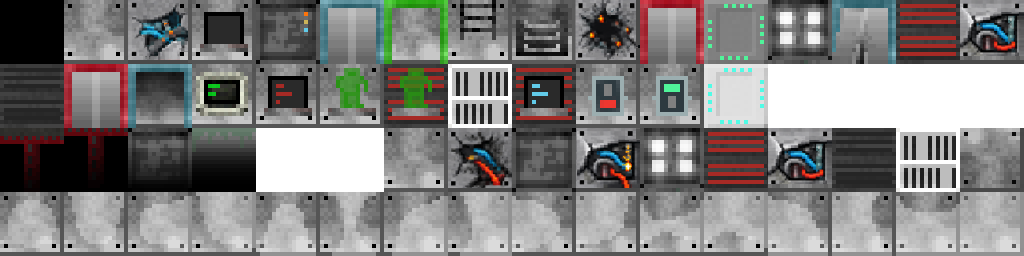
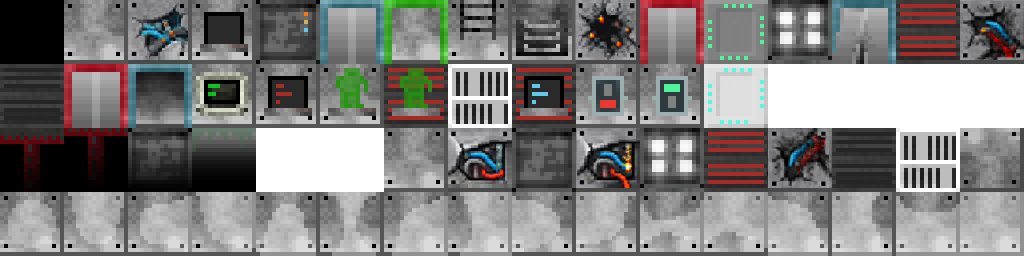
Refine terrain states and game zoom persistence

Changed region(s): [[0.9375, 0.0, 1.0, 0.25], [0.75, 0.5, 0.8125, 0.75], [0.4375, 0.5, 0.5, 0.75]]

diff --git a/core/src/main/java/com/wafitz/pixelspacebase/SpacebaseTilemap.java b/core/src/main/java/com/wafitz/pixelspacebase/SpacebaseTilemap.java
@@ -66,7 +66,9 @@ public class SpacebaseTilemap extends Tilemap {
         defaultVisuals.put(Terrain.SECRET_DOOR, defaultVisuals.get(Terrain.WALL));
         defaultVisuals.put(Terrain.HIDDEN_VENT, defaultVisuals.get(Terrain.EMPTY));
         defaultVisuals.put(Terrain.VENT, defaultVisuals.get(Terrain.EMPTY));
-        defaultVisuals.put(Terrain.INACTIVE_VENT, defaultVisuals.get(Terrain.EMPTY));
+        defaultVisuals.put(Terrain.INACTIVE_VENT, 9);
+        defaultVisuals.put(Terrain.SPENT_MINE, 41);
+        defaultVisuals.put(Terrain.TRAMPLED_OFFVENT, defaultVisuals.get(Terrain.OFFVENT));
 
         defaultVisuals.put(Terrain.EMPTY_DECO, 16);
         defaultVisuals.put(Terrain.LOCKED_EXIT, 17);
@@ -110,7 +112,8 @@ public class SpacebaseTilemap extends Tilemap {
             Terrain.EMPTY, Terrain.LIGHTEDVENT, Terrain.EMPTY_WELL,
             Terrain.ENTRANCE, Terrain.EXIT, Terrain.EMBERS,
             Terrain.BARRICADE, Terrain.OFFVENT, Terrain.HIDDEN_VENT,
-            Terrain.VENT, Terrain.INACTIVE_VENT, Terrain.EMPTY_DECO,
+            Terrain.VENT, Terrain.INACTIVE_VENT, Terrain.TRAMPLED_OFFVENT,
+            Terrain.SPENT_MINE, Terrain.EMPTY_DECO,
             Terrain.SIGN, Terrain.WELL, Terrain.STATUE, Terrain.CRAFTING,
             Terrain.BREAKER, Terrain.HEALING_TANK
     );
@@ -124,6 +127,8 @@ public class SpacebaseTilemap extends Tilemap {
         chasmStitcheable.put(Terrain.LIGHTEDVENT, 32);
         chasmStitcheable.put(Terrain.EMPTY_WELL, 32);
         chasmStitcheable.put(Terrain.OFFVENT, 32);
+        chasmStitcheable.put(Terrain.TRAMPLED_OFFVENT, 32);
+        chasmStitcheable.put(Terrain.SPENT_MINE, 32);
         chasmStitcheable.put(Terrain.EMPTY_DECO, 32);
         chasmStitcheable.put(Terrain.SIGN, 32);
         chasmStitcheable.put(Terrain.EMPTY_WELL, 32);
@@ -198,6 +203,10 @@ public class SpacebaseTilemap extends Tilemap {
 
     private int getTileVisual(int pos, int tile) {
         int visual = defaultVisuals.get(tile);
+
+        if (tile == Terrain.INACTIVE_VENT || tile == Terrain.SPENT_MINE) {
+            return visual;
+        }
 
         if (tile == Terrain.BREAKER) {
             return SpacebaseRun.level.floorBreakerOn ? 26 : 25;

diff --git a/core/src/main/java/com/wafitz/pixelspacebase/levels/Level.java b/core/src/main/java/com/wafitz/pixelspacebase/levels/Level.java
@@ -908,12 +908,8 @@ public abstract class Level implements Bundlable {
             mine.wither();
         }
 
-        if (map[pos] == Terrain.OFFVENT ||
-                map[pos] == Terrain.LIGHTEDVENT ||
-                map[pos] == Terrain.EMPTY ||
-                map[pos] == Terrain.EMBERS ||
-                map[pos] == Terrain.EMPTY_DECO) {
-            set(pos, Terrain.INACTIVE_VENT);
+        if (map[pos] == Terrain.OFFVENT) {
+            set(pos, Terrain.TRAMPLED_OFFVENT);
         }
 
         mine = device.couch(pos);
@@ -1234,6 +1230,7 @@ public abstract class Level implements Bundlable {
             case Terrain.STATUE_SP:
                 return Messages.get(Level.class, "statue_name");
             case Terrain.INACTIVE_VENT:
+            case Terrain.TRAMPLED_OFFVENT:
                 return Messages.get(Level.class, "inactive_vent_name");
             case Terrain.BOOKSHELF:
                 return Messages.get(Level.class, "bookshelf_name");
@@ -1269,6 +1266,7 @@ public abstract class Level implements Bundlable {
             case Terrain.SIGN:
                 return Messages.get(Level.class, "sign_desc");
             case Terrain.INACTIVE_VENT:
+            case Terrain.TRAMPLED_OFFVENT:
                 return Messages.get(Level.class, "inactive_vent_desc");
             case Terrain.STATUE:
             case Terrain.STATUE_SP:

diff --git a/core/src/main/java/com/wafitz/pixelspacebase/ui/TerrainFeaturesTilemap.java b/core/src/main/java/com/wafitz/pixelspacebase/ui/TerrainFeaturesTilemap.java
@@ -99,10 +99,10 @@ public class TerrainFeaturesTilemap extends Tilemap {
     private int getTileVisual(int pos, int tile) {
         if (vents.get(pos) != null) {
             Vent vent = vents.get(pos);
-            if (!vent.visible) {
+            if (!vent.visible || !vent.active) {
                 return -1;
             } else {
-                return (vent.active ? vent.color : Vent.BLACK) + (vent.shape * 16);
+                return vent.color + (vent.shape * 16);
             }
         }
 
@@ -110,11 +110,10 @@ public class TerrainFeaturesTilemap extends Tilemap {
             return mines.get(pos).image + 7 * 16;
         }
 
-        if (tile == Terrain.OFFVENT) {
-            // The terrain atlas already contains the complete broken-floor artwork.
+        if (tile == Terrain.OFFVENT || tile == Terrain.TRAMPLED_OFFVENT ||
+                tile == Terrain.INACTIVE_VENT || tile == Terrain.SPENT_MINE) {
+            // These states have complete artwork in the terrain atlas.
             return -1;
-        } else if (tile == Terrain.INACTIVE_VENT) {
-            return 15 + 16 * ((SpacebaseRun.depth - 1) / 5);
         } else if (tile == Terrain.LIGHTEDVENT) {
             return -1;
         } else if (tile == Terrain.EMBERS) {

diff --git a/core/src/main/java/com/wafitz/pixelspacebase/levels/Terrain.java b/core/src/main/java/com/wafitz/pixelspacebase/levels/Terrain.java
@@ -55,6 +55,8 @@ public class Terrain {
     public static final int CRAFTING = 28;
     public static final int BREAKER = 29;
     public static final int HEALING_TANK = 30;
+    public static final int TRAMPLED_OFFVENT = 31;
+    public static final int SPENT_MINE = 32;
 
     // wafitz.v4 Changed to default, doesn't affect game tiles though...
     public static final int WATER = 63;
@@ -93,6 +95,8 @@ public class Terrain {
         flags[HIDDEN_VENT] = flags[EMPTY] | SECRET;
         flags[VENT] = AVOID;
         flags[INACTIVE_VENT] = flags[EMPTY];
+        flags[TRAMPLED_OFFVENT] = flags[EMPTY];
+        flags[SPENT_MINE] = flags[EMPTY];
 
         flags[EMPTY_DECO] = flags[EMPTY];
         flags[LOCKED_EXIT] = SOLID;

diff --git a/core/src/test/java/com/wafitz/pixelspacebase/levels/TerrainTouchedStateTest.java b/core/src/test/java/com/wafitz/pixelspacebase/levels/TerrainTouchedStateTest.java
@@ -1,0 +1,17 @@
+package com.wafitz.pixelspacebase.levels;
+
+import org.junit.Test;
+
+import static org.junit.Assert.assertEquals;
+import static org.junit.Assert.assertNotEquals;
+
+public class TerrainTouchedStateTest {
+
+    @Test
+    public void touchedPanelsRemainPassableWithoutActivePanelFlags() {
+        assertNotEquals(Terrain.OFFVENT, Terrain.TRAMPLED_OFFVENT);
+        assertNotEquals(Terrain.INACTIVE_VENT, Terrain.SPENT_MINE);
+        assertEquals(Terrain.flags[Terrain.EMPTY], Terrain.flags[Terrain.TRAMPLED_OFFVENT]);
+        assertEquals(Terrain.flags[Terrain.EMPTY], Terrain.flags[Terrain.SPENT_MINE]);
+    }
+}

diff --git a/core/src/main/java/com/wafitz/pixelspacebase/mines/Mine.java b/core/src/main/java/com/wafitz/pixelspacebase/mines/Mine.java
@@ -70,8 +70,10 @@ public abstract class Mine implements Bundlable {
 
     public void wither() {
         SpacebaseRun.level.uproot(pos);
-        if (SpacebaseRun.level.map[pos] == Terrain.LIGHTEDVENT) {
-            Level.set(pos, Terrain.INACTIVE_VENT);
+        int terrain = SpacebaseRun.level.map[pos];
+        if (terrain == Terrain.EMPTY || terrain == Terrain.LIGHTEDVENT ||
+                terrain == Terrain.EMBERS || terrain == Terrain.EMPTY_DECO) {
+            Level.set(pos, Terrain.SPENT_MINE);
             GameScene.updateMap(pos);
         }
 

diff --git a/core/src/main/java/com/wafitz/pixelspacebase/Preferences.java b/core/src/main/java/com/wafitz/pixelspacebase/Preferences.java
@@ -37,7 +37,7 @@ enum Preferences {
     public static final String KEY_MUSIC_VOL = "music_vol";
     public static final String KEY_SOUND_FX = "soundfx";
     public static final String KEY_SFX_VOL = "sfx_vol";
-    public static final String KEY_ZOOM = "zoom";
+    public static final String KEY_ZOOM = "world_zoom_v2";
     public static final String KEY_LAST_CLASS = "last_class";
     public static final String KEY_CHALLENGES = "challenges";
     public static final String KEY_QUICKSLOTS = "quickslots";

diff --git a/core/src/main/java/com/wafitz/pixelspacebase/scenes/CellSelector.java b/core/src/main/java/com/wafitz/pixelspacebase/scenes/CellSelector.java
@@ -91,7 +91,7 @@ public class CellSelector extends TouchArea {
     private float zoom(float value) {
 
         value = GameMath.gate(PixelScene.minZoom, value, PixelScene.maxZoom);
-        PixelSpacebase.zoom((int) (value - PixelScene.defaultZoom));
+        PixelSpacebase.zoom(Math.round(value - PixelScene.defaultGameZoom()));
         camera.zoom(value);
 
         //Resets character sprite positions with the new camera zoom

diff --git a/core/src/main/java/com/wafitz/pixelspacebase/scenes/GameScene.java b/core/src/main/java/com/wafitz/pixelspacebase/scenes/GameScene.java
@@ -156,7 +156,7 @@ public class GameScene extends PixelScene {
         PixelSpacebase.lastClass(SpacebaseRun.hero.heroClass.ordinal());
 
         super.create();
-        Camera.main.zoom(GameMath.gate(minZoom, defaultZoom + PixelSpacebase.zoom(), maxZoom));
+        Camera.main.zoom(GameMath.gate(minZoom, defaultGameZoom() + PixelSpacebase.zoom(), maxZoom));
 
         scene = this;
 

diff --git a/core/src/main/java/com/wafitz/pixelspacebase/levels/features/OffVent.java b/core/src/main/java/com/wafitz/pixelspacebase/levels/features/OffVent.java
@@ -49,7 +49,7 @@ public class OffVent {
 
     public static void trample(Level level, int pos, Char ch) {
 
-        Level.set(pos, Terrain.INACTIVE_VENT);
+        Level.set(pos, Terrain.TRAMPLED_OFFVENT);
         GameScene.updateMap(pos);
 
         if (ch instanceof Hero) {

diff --git a/core/src/main/java/com/wafitz/pixelspacebase/scenes/PixelScene.java b/core/src/main/java/com/wafitz/pixelspacebase/scenes/PixelScene.java
@@ -59,6 +59,10 @@ public class PixelScene extends Scene {
     static float minZoom;
     static float maxZoom;
 
+    public static int defaultGameZoom() {
+        return Math.round(defaultZoom * 1.5f);
+    }
+
     public static Camera uiCamera;
 
     //stylized pixel font
